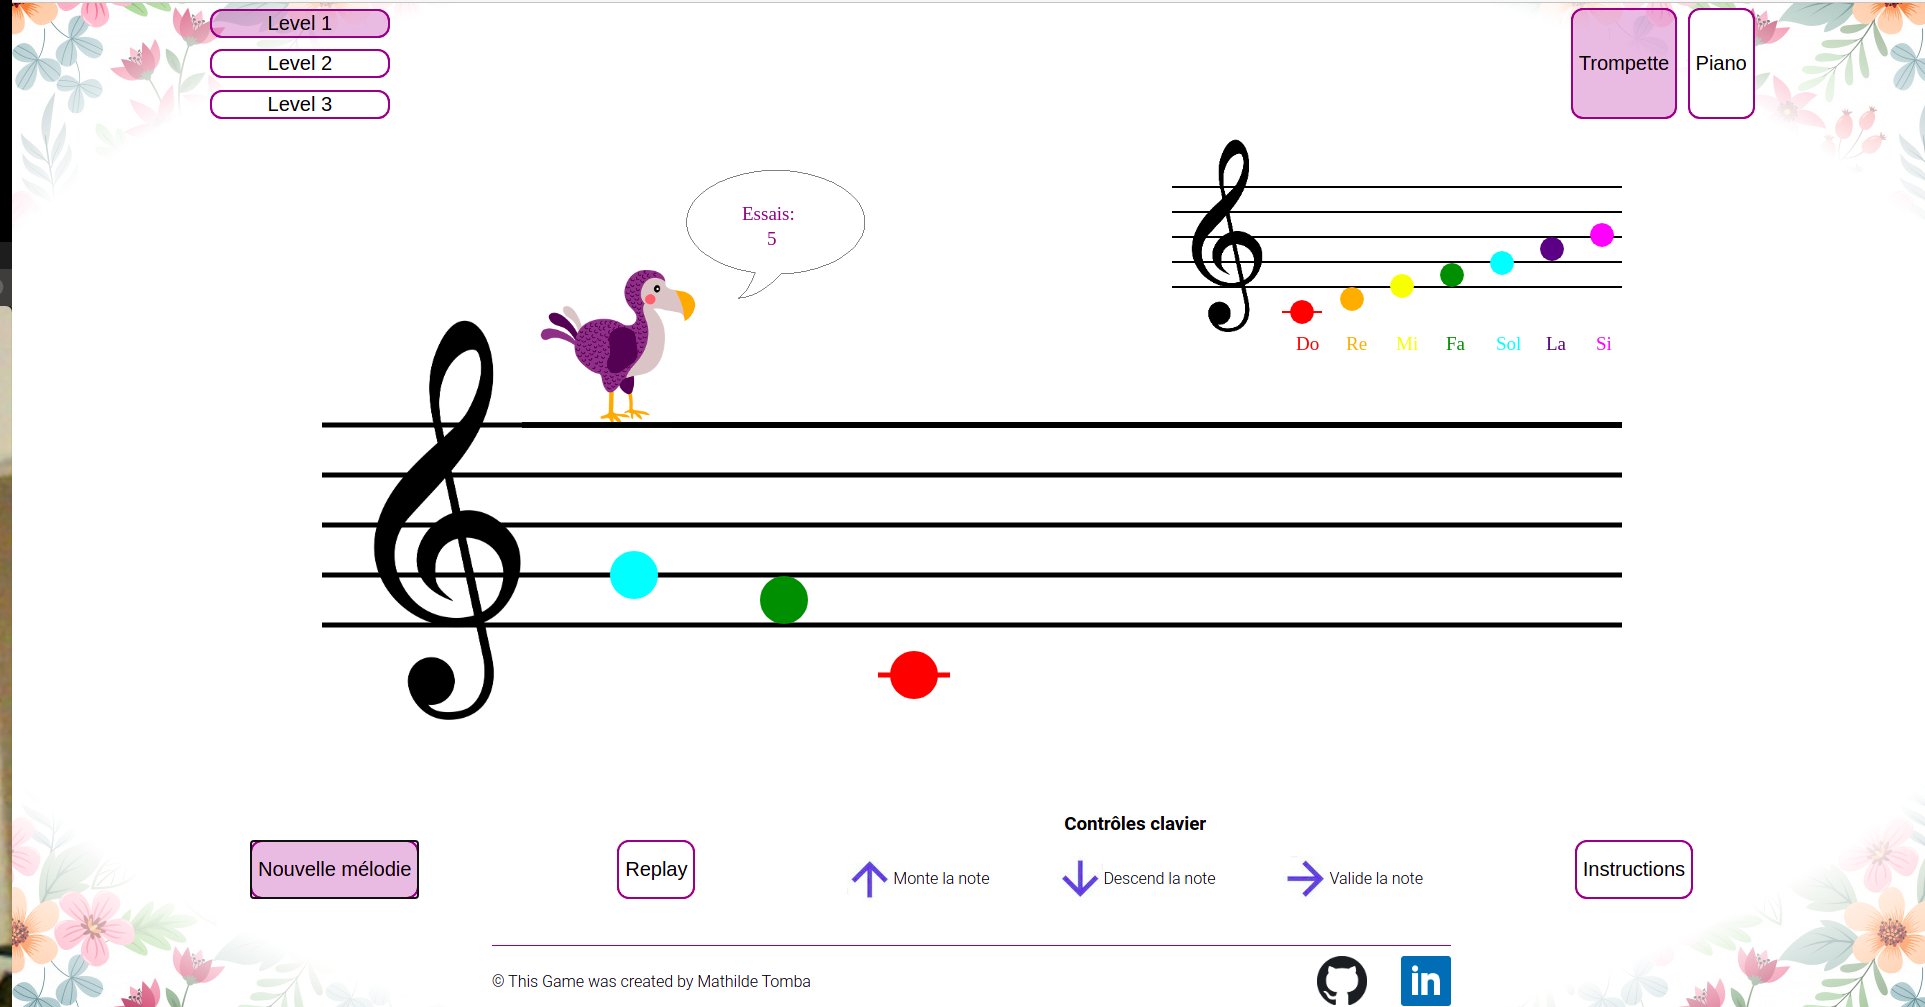
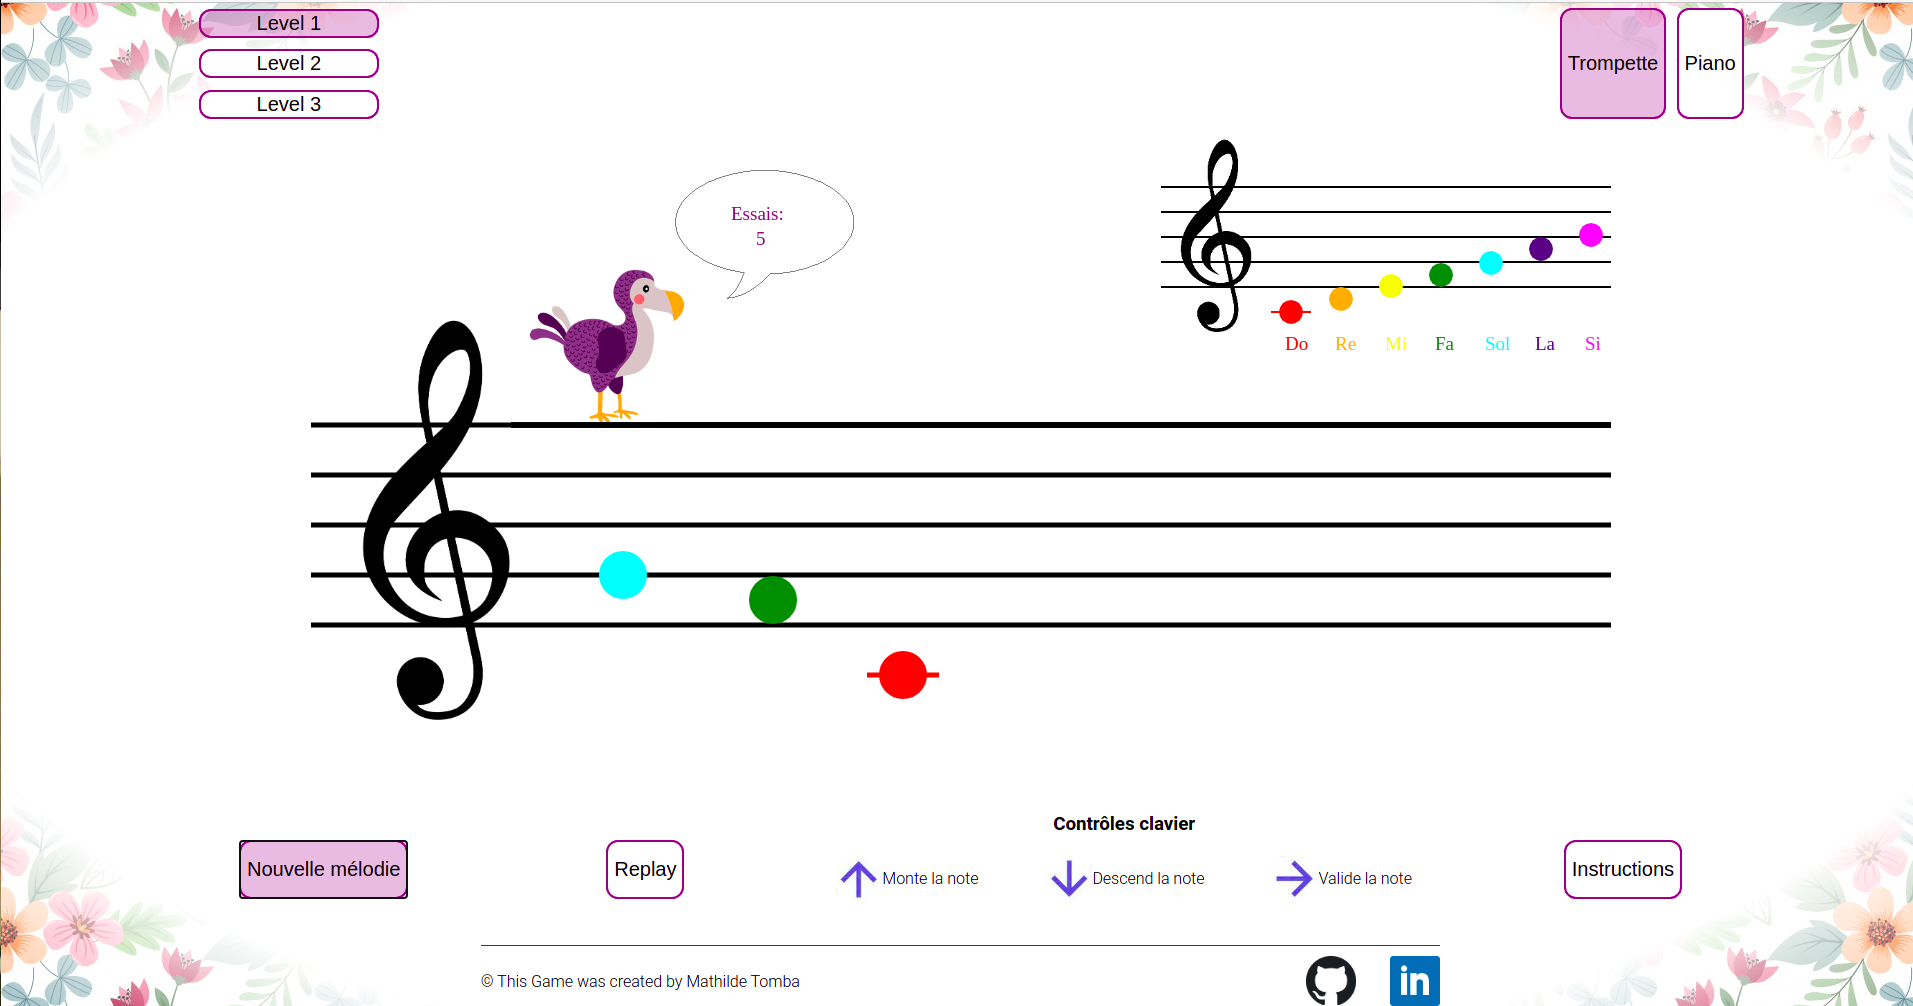
ecran accueil

diff --git a/README.md b/README.md
@@ -12,7 +12,7 @@ There are 3 levels of difficulty depending on the level of music theory .
 This game is my first training project at IronHack. 
 
 
-<img src="/images/screen.png" alt="dodo" width="100"/>
+<img src="/images/screen.png" alt="dodo" width="800"/>
 
 ### Set UP
 
